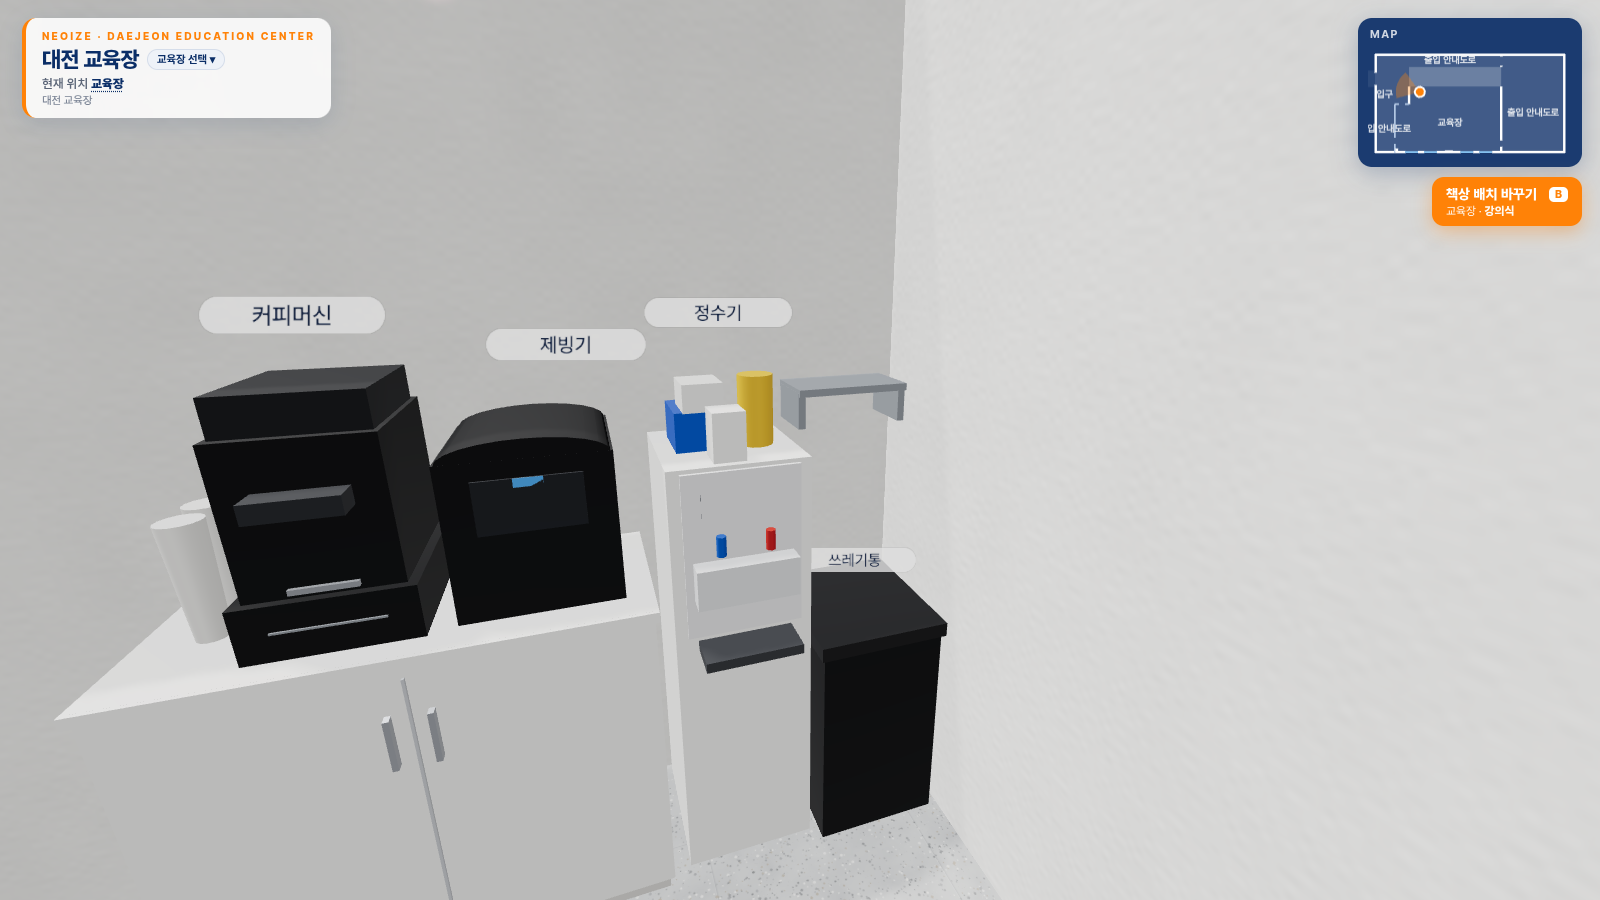
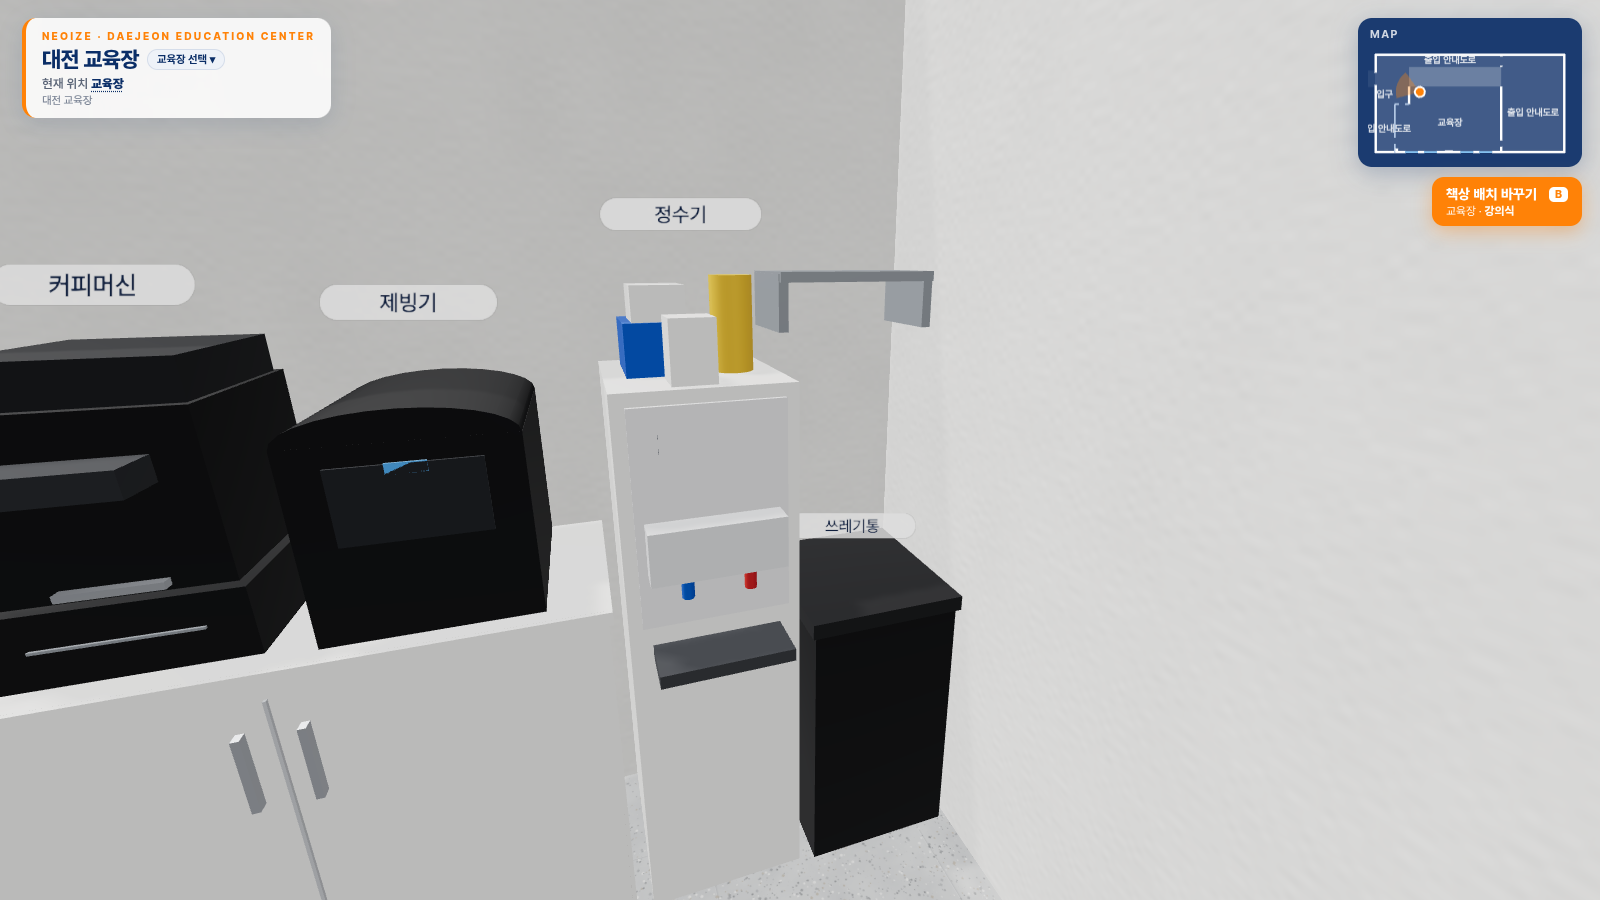
대전 커피 코너 실제 크기로 확대(수납장 1.2×0.5×0.9, 정수기 1.35m, 쓰레기통 0.75m, LED 시계 0.9m 등)

Changed region(s): [[0.0, 0.2178, 0.625, 0.9644], [0.1875, 0.9333, 0.2188, 1.0]]

diff --git a/app.js b/app.js
@@ -5,7 +5,7 @@ import { OrbitControls } from 'three/addons/OrbitControls.js';
 import { CSS2DRenderer, CSS2DObject } from 'three/addons/CSS2DRenderer.js';
 import { RoomEnvironment } from 'three/addons/RoomEnvironment.js';
 import { mergeGeometries } from 'three/addons/BufferGeometryUtils.js';
-import { makeTextures, textTexture } from './textures.js?v=11191630';
+import { makeTextures, textTexture } from './textures.js?v=11191700';
 
 const L = window.LAYOUT, B = L.building, H = B.ceiling, EYE = B.eye || 1.6, W = B.width, D = B.depth;
 const TW = Object.assign({ exterior: 0.24, interior: 0.14, thick: 0.3 }, B.wall || {});
@@ -581,46 +581,47 @@ function ledClock(g, o) {   // 빨간 LED 디지털 시계 (벽걸이)
   const m = new THREE.Mesh(new THREE.PlaneGeometry(0.46, 0.17), new THREE.MeshBasicMaterial({ map: tx })); m.position.set(0, y + 0.1, -0.021); m.rotation.y = Math.PI; m.userData.keep = true; g.add(m);
   g.userData.noBlob = true;
 }
-function coffeeCorner(g, o) {   // 대전 커피 코너(사진 11/19): 그룹 원점 = 벽면, 앞(-z)이 실내. u = 벽을 바라볼 때 왼→오른쪽 거리 → 로컬 x = -u
+function coffeeCorner(g, o) {   // 대전 커피 코너(사진 11/19, 책상 0.72m 기준 실제 크기): 그룹 원점 = 벽면, 앞(-z)이 실내. u = 벽을 바라볼 때 왼→오른쪽 거리 → 로컬 x = -u
   const X = (u) => -u, W = plain(0xf4f4f2), BK = plain(0x1c1d20), GR = plain(0x9aa0a6);
-  // 흰 낮은 2문 수납장 1.0 × 0.45 × 0.85
-  { const u = o.cab ?? -0.1, x = X(u), h = 0.85, d = 0.45;
-    box(0.98, 0.06, d - 0.04, plain(0xd9d9d6), x, 0, -d / 2 + 0.01, g); box(1.0, h - 0.06, d, W, x, 0.06, -d / 2, g); box(1.02, 0.025, d + 0.02, W, x, h - 0.025, -d / 2, g);
-    box(0.006, h - 0.14, 0.01, plain(0xc9ccd1), x, 0.09, -d - 0.002, g);
-    for (const s of [-1, 1]) box(0.012, 0.12, 0.02, M.metal, x + s * 0.04, 0.6, -d - 0.012, g);
+  // 흰 2문 수납장 1.2 × 0.5 × 0.9
+  { const u = o.cab ?? -0.3, x = X(u), cw = 1.2, h = 0.9, d = 0.5;
+    box(cw - 0.02, 0.07, d - 0.05, plain(0xd9d9d6), x, 0, -d / 2 + 0.01, g); box(cw, h - 0.07, d, W, x, 0.07, -d / 2, g); box(cw + 0.02, 0.03, d + 0.02, W, x, h - 0.03, -d / 2, g);
+    box(0.006, h - 0.16, 0.01, plain(0xc9ccd1), x, 0.1, -d - 0.002, g);
+    for (const s of [-1, 1]) box(0.014, 0.16, 0.022, M.metal, x + s * 0.05, 0.62, -d - 0.013, g);
     const t = h;
-    // 종이컵 묶음(왼쪽) + 검정 받침 서랍 위 캡슐 커피머신
-    { const cx = X(u - 0.38); for (let i = 0; i < 2; i++) cyl(0.04, 0.03, 0.26, W, cx + i * 0.09 * 0, t, -0.14 - i * 0.1, 14, g); }
-    { const cx = X(u - 0.12); box(0.32, 0.12, 0.36, BK, cx, t, -0.21, g); box(0.2, 0.004, 0.005, GR, cx, t + 0.06, -0.392, g);
-      box(0.28, 0.32, 0.34, BK, cx, t + 0.12, -0.2, g); box(0.26, 0.08, 0.3, plain(0x2a2c30), cx, t + 0.44, -0.2, g);
-      box(0.16, 0.04, 0.08, plain(0x3a3d42), cx, t + 0.3, -0.39, g); box(0.12, 0.012, 0.1, M.metal, cx, t + 0.13, -0.33, g); }
-    // 검정 제빙기(둥근 윗면)
-    { const ix = X(u + 0.27); box(0.35, 0.36, 0.34, BK, ix, t, -0.2, g);
-      const top = cyl(0.17, 0.17, 0.34, BK, ix, 0, 0, 24, g); top.rotation.x = Math.PI / 2; top.scale.set(1, 1, 0.25); top.position.set(ix, t + 0.36, -0.2);
-      box(0.22, 0.12, 0.005, plain(0x30343a), ix, t + 0.2, -0.373, g); box(0.06, 0.02, 0.005, plain(0x5ab0ff), ix, t + 0.3, -0.373, g); }
+    // 종이컵 묶음 0.35m (왼쪽)
+    { const cx = X(u - 0.48); cyl(0.045, 0.035, 0.35, W, cx, t, -0.16, 16, g); cyl(0.045, 0.035, 0.3, W, cx, t, -0.28, 16, g); }
+    // 캡슐 커피머신 0.38 × 0.55(받침 서랍 0.14 포함)
+    { const cx = X(u - 0.2); box(0.38, 0.14, 0.42, BK, cx, t, -0.23, g); box(0.24, 0.005, 0.006, GR, cx, t + 0.07, -0.443, g);
+      box(0.34, 0.33, 0.38, BK, cx, t + 0.14, -0.22, g); box(0.32, 0.08, 0.34, plain(0x2a2c30), cx, t + 0.47, -0.22, g);
+      box(0.2, 0.05, 0.1, plain(0x3a3d42), cx, t + 0.34, -0.45, g); box(0.15, 0.014, 0.12, M.metal, cx, t + 0.15, -0.37, g); }
+    // 검정 제빙기 0.4 × 0.45 × 0.45 (둥근 윗면)
+    { const ix = X(u + 0.28), dd = 0.45; box(0.4, 0.39, dd, BK, ix, t, -dd / 2 - 0.01, g);
+      const top = cyl(0.2, 0.2, dd, BK, ix, 0, 0, 28, g); top.rotation.x = Math.PI / 2; top.scale.set(1, 1, 0.3); top.position.set(ix, t + 0.39, -dd / 2 - 0.01);
+      box(0.26, 0.15, 0.005, plain(0x30343a), ix, t + 0.2, -dd - 0.013, g); box(0.07, 0.022, 0.005, plain(0x5ab0ff), ix, t + 0.33, -dd - 0.013, g); }
   }
-  // 바닥형 흰 정수기 0.35 × 1.15 + 앞 패널 · 꼭지 2개 · 물받이, 위에 비품
-  { const x = X(o.water ?? 0.625), d = 0.36, fz = -d - 0.02;
-    box(0.35, 1.15, d, W, x, 0, -d / 2 - 0.02, g); box(0.29, 0.42, 0.01, plain(0xe9eaec), x, 0.72, fz - 0.005, g);
-    box(0.25, 0.1, 0.06, plain(0xdfe1e4), x, 0.82, fz - 0.03, g);
-    cyl(0.012, 0.012, 0.05, plain(0xd23b2b), x - 0.06, 0.94, fz - 0.03, 8, g); cyl(0.012, 0.012, 0.05, plain(0x2b6fd2), x + 0.06, 0.94, fz - 0.03, 8, g);
-    box(0.24, 0.025, 0.1, plain(0x4a4d52), x, 0.68, fz - 0.05, g);
-    box(0.2, 0.06, 0.005, plain(0x2b3440), x, 1.03, fz - 0.006, g);
-    cyl(0.045, 0.045, 0.18, plain(0xf2c230), x - 0.08, 1.15, -0.22, 14, g);   // 노란 컵 홀더
-    box(0.12, 0.1, 0.16, plain(0x2f6fd6), x + 0.07, 1.15, -0.17, g);           // 파란 상자
-    box(0.1, 0.07, 0.12, W, x + 0.06, 1.25, -0.2, g); box(0.08, 0.12, 0.08, W, x + 0.02, 1.15, -0.32, g);
+  // 바닥형 흰 정수기 0.4 × 0.45 × 1.35, 꼭지 1.0m + 물받이, 위에 비품
+  { const x = X(o.water ?? 0.54), d = 0.45, fz = -d - 0.01;
+    box(0.4, 1.35, d, W, x, 0, -d / 2 - 0.01, g); box(0.34, 0.5, 0.01, plain(0xe9eaec), x, 0.82, fz - 0.005, g);
+    box(0.3, 0.12, 0.07, plain(0xdfe1e4), x, 0.95, fz - 0.035, g);
+    cyl(0.014, 0.014, 0.06, plain(0xd23b2b), x - 0.07, 0.9, fz - 0.04, 8, g); cyl(0.014, 0.014, 0.06, plain(0x2b6fd2), x + 0.07, 0.9, fz - 0.04, 8, g);
+    box(0.3, 0.03, 0.12, plain(0x4a4d52), x, 0.74, fz - 0.06, g);
+    box(0.22, 0.07, 0.005, plain(0x2b3440), x, 1.2, fz - 0.006, g);
+    cyl(0.05, 0.05, 0.22, plain(0xf2c230), x - 0.1, 1.35, -0.26, 16, g);       // 노란 컵 홀더
+    box(0.14, 0.12, 0.2, plain(0x2f6fd6), x + 0.08, 1.35, -0.2, g);            // 파란 상자
+    box(0.12, 0.08, 0.14, W, x + 0.07, 1.47, -0.22, g); box(0.1, 0.14, 0.1, W, x + 0.02, 1.35, -0.38, g);
   }
-  // 검정 사각 쓰레기통 0.4(앞뒤) × 0.35 × 0.6 (모서리) + 위 회색 벽 선반
-  { const x = X(o.bin ?? 1.0); box(0.35, 0.6, 0.4, BK, x, 0, -0.22, g); box(0.37, 0.04, 0.42, plain(0x2a2b2e), x, 0.6, -0.22, g);
-    box(0.32, 0.02, 0.18, GR, x, 1.25, -0.09, g); box(0.02, 0.1, 0.16, GR, x - 0.15, 1.16, -0.09, g); box(0.02, 0.1, 0.16, GR, x + 0.15, 1.16, -0.09, g); }
-  // 테 없는 흰(분홍기) LED 숫자 시계 + 왼쪽 빨간 화재 경보함
-  { const x = X(o.clock ?? -0.1), y = o.clockY ?? 2.08;
-    const c = document.createElement('canvas'); c.width = 512; c.height = 160; const k = c.getContext('2d');
-    k.shadowColor = '#ffd6dc'; k.shadowBlur = 18; k.fillStyle = '#fff2f4'; k.font = '700 132px monospace'; k.textAlign = 'center'; k.textBaseline = 'middle'; k.fillText(o.text || '13:39', 256, 84);
+  // 검정 사각 쓰레기통 0.4(벽 방향) × 0.45(앞뒤) × 0.75 (모서리) + 위 회색 벽 선반
+  { const x = X(o.bin ?? 0.98); box(0.4, 0.72, 0.45, BK, x, 0, -0.245, g); box(0.42, 0.04, 0.47, plain(0x2a2b2e), x, 0.71, -0.245, g);
+    box(0.42, 0.025, 0.24, GR, x, 1.55, -0.12, g); box(0.025, 0.14, 0.22, GR, x - 0.2, 1.43, -0.12, g); box(0.025, 0.14, 0.22, GR, x + 0.2, 1.43, -0.12, g); }
+  // 테 없는 흰(분홍기) LED 숫자 시계 0.9 × 0.25 @2.2m + 왼쪽 빨간 화재 경보함 0.2
+  { const x = X(o.clock ?? -0.3), y = o.clockY ?? 2.2;
+    const c = document.createElement('canvas'); c.width = 768; c.height = 220; const k = c.getContext('2d');
+    k.shadowColor = '#ffd6dc'; k.shadowBlur = 22; k.fillStyle = '#fff2f4'; k.font = '700 200px monospace'; k.textAlign = 'center'; k.textBaseline = 'middle'; k.fillText(o.text || '13:39', 384, 116, 740);
     const tx = new THREE.CanvasTexture(c); tx.colorSpace = THREE.SRGBColorSpace;
-    const m = new THREE.Mesh(new THREE.PlaneGeometry(0.62, 0.19), new THREE.MeshBasicMaterial({ map: tx, transparent: true, depthWrite: false })); m.position.set(x, y + 0.1, -0.012); m.rotation.y = Math.PI; m.userData.keep = true; m.renderOrder = 5; g.add(m);
-    const ax = X(o.alarm ?? -0.75); box(0.16, 0.22, 0.06, plain(0xd8261c), ax, (o.alarmY ?? 1.95), -0.03, g); cyl(0.035, 0.035, 0.015, plain(0xf2f2f2), ax, 0, 0, 16, g).position.set(ax, (o.alarmY ?? 1.95) + 0.12, -0.065);
-    g.children[g.children.length - 1].rotation.x = Math.PI / 2; }
+    const m = new THREE.Mesh(new THREE.PlaneGeometry(0.9, 0.26), new THREE.MeshBasicMaterial({ map: tx, transparent: true, depthWrite: false })); m.position.set(x, y, -0.012); m.rotation.y = Math.PI; m.userData.keep = true; m.renderOrder = 5; g.add(m);
+    const ax = X(o.alarm ?? -1.05), ay = o.alarmY ?? 2.05; box(0.2, 0.26, 0.07, plain(0xd8261c), ax, ay, -0.035, g);
+    const bt = cyl(0.045, 0.045, 0.015, plain(0xf2f2f2), 0, 0, 0, 16, g); bt.rotation.x = Math.PI / 2; bt.position.set(ax, ay + 0.15, -0.075); }
   g.userData.noBlob = true;
 }
 function cabinet(g, o) { box(o.w || 1.2, o.h || 0.7, o.d || 0.4, matOf(o.color || 'white'), 0, 0, 0, g); }

diff --git a/sites/daejeon/layout.js b/sites/daejeon/layout.js
@@ -118,11 +118,11 @@ window.LAYOUT = {
     { id:'dj_speaker', name:'스피커', room:'교육장', boxes:[[19.6, 5.3, 20.2, 5.7, 2.2, 2.7], [19.6, 15.63, 20.2, 16.03, 2.2, 2.7]], lines:['음량 조절: (예: 앰프 위치) — 수정 필요', '마이크: (예: 무선 마이크) — 수정 필요'] },
     { id:'dj_ac', name:'에어컨', room:'교육장', boxes:[[10.3, 9.7, 11.3, 10.7, 2.5, 2.75], [16.4, 12.1, 17.4, 13.1, 2.5, 2.75]], lines:['리모컨/조작: (예: 벽 컨트롤러) — 수정 필요'] },
     // 북서쪽 벽 커피 코너(사진): 남→북 수납장(커피머신·제빙기) · 정수기 · 쓰레기통
-    { id:'dj_coffee', name:'커피머신', room:'교육장', box:[5.72, 6.55, 6.12, 6.86, 0.85, 1.42], label:true, labelAt:[5.92, 1.5, 6.72], lines:['사용 방법: (예: 캡슐 넣고 버튼) — 수정 필요', '종이컵: 왼쪽에 비치'] },
-    { id:'dj_ice', name:'제빙기', room:'교육장', box:[5.72, 6.05, 6.1, 6.42, 0.85, 1.32], label:true, labelAt:[5.9, 1.42, 6.23], lines:['사용 방법: (예: 스쿱은 옆 걸이) — 수정 필요'] },
-    { id:'dj_water', name:'정수기', room:'교육장', box:[5.69, 5.7, 6.07, 6.05, 0, 1.38], label:true, labelAt:[5.88, 1.48, 5.875], lines:['냉수·온수: (예: 온수 잠금 버튼) — 수정 필요', '컵·비품: 정수기 위'] },
-    { id:'dj_bin', name:'쓰레기통', room:'교육장', box:[5.69, 5.32, 6.11, 5.68, 0, 0.64], label:true, labelAt:[5.9, 0.76, 5.5], lines:['분리수거: (예: 일반쓰레기) — 수정 필요'] },
-    { id:'dj_clock', name:'디지털 시계', room:'교육장', box:[5.69, 6.28, 5.76, 6.92, 2.08, 2.3], lines:['수납장 위 벽 LED 시계'] }
+    { id:'dj_coffee', name:'커피머신', room:'교육장', box:[5.72, 6.81, 6.16, 7.19, 0.9, 1.45], label:true, labelAt:[5.92, 1.56, 7.0], lines:['사용 방법: (예: 캡슐 넣고 버튼) — 수정 필요', '종이컵: 왼쪽에 비치'] },
+    { id:'dj_ice', name:'제빙기', room:'교육장', box:[5.7, 6.32, 6.16, 6.72, 0.9, 1.41], label:true, labelAt:[5.92, 1.52, 6.52], lines:['사용 방법: (예: 스쿱은 옆 걸이) — 수정 필요'] },
+    { id:'dj_water', name:'정수기', room:'교육장', box:[5.69, 5.76, 6.16, 6.16, 0, 1.6], label:true, labelAt:[5.92, 1.7, 5.96], lines:['냉수·온수: (예: 온수 잠금 버튼) — 수정 필요', '컵·비품: 정수기 위'] },
+    { id:'dj_bin', name:'쓰레기통', room:'교육장', box:[5.69, 5.32, 6.16, 5.72, 0, 0.76], label:true, labelAt:[5.92, 0.88, 5.52], lines:['분리수거: (예: 일반쓰레기) — 수정 필요'] },
+    { id:'dj_clock', name:'디지털 시계', room:'교육장', box:[5.69, 6.35, 5.76, 7.25, 2.07, 2.33], lines:['수납장 위 벽 LED 시계'] }
   ],
 
   furniture: [
@@ -134,7 +134,7 @@ window.LAYOUT = {
     /* --- 북서쪽 벽 커피 코너(실제 사진 11/19): 벽을 바라볼 때 왼→오른쪽(남→북)
            흰 2문 수납장(커피머신·종이컵·제빙기) → 바닥형 정수기 → 모서리 검정 쓰레기통 + 회색 선반, 위에 LED 시계 · 화재 경보함
            그룹 원점 = 벽면(x5.69), z6.5 = u 0. 위치는 cab / water / bin / clock / alarm (u, m) 로 조정 --- */
-    { type:'coffeeCorner', x:5.69, z:6.5, rot:-90, cab:-0.1, water:0.625, bin:1.0, clock:-0.1, alarm:-0.75 },
+    { type:'coffeeCorner', x:5.69, z:6.5, rot:-90, cab:-0.3, water:0.54, bin:0.98, clock:-0.3, alarm:-1.05 },
 
     /* --- 입구 --- */
     { type:'mat', x:0.75, z:4.05, w:0.8, d:1.3, color:'orange' }

diff --git a/index.html b/index.html
@@ -178,10 +178,10 @@ a.pk-card:hover{transform:translateY(-4px);box-shadow:0 16px 36px rgba(11,46,103
   </div>
 </aside>
 <!-- 교육장 목록: sites/sites.js / 교육장별 공간 설정: sites/<id>/layout.js (치수·가구 배치는 거기서 수정) -->
-<script src="sites/sites.js?v=11191630"></script>
+<script src="sites/sites.js?v=11191700"></script>
 <script type="importmap">{"imports":{"three":"./lib/three.module.min.js","three/addons/":"./lib/addons/"}}</script>
 <script type="module">
-const V = '11191630', SITES = window.SITES || [], q = new URLSearchParams(location.search);
+const V = '11191700', SITES = window.SITES || [], q = new URLSearchParams(location.search);
 let id = q.get('site');
 if (!id && [...q.keys()].length) id = 'seoul';            // 예전 링크(?room=… 등)는 서울 구로로
 const S = SITES.find((s) => s.id === id);

diff --git a/수정방법.md b/수정방법.md
@@ -12,7 +12,7 @@
   - 출입 안내도로: 북쪽 띠(z0–5.30), 서쪽(x0–3.28), 동쪽(x20.83–31.36). 북쪽 띠 안 흰 상자 = `columns` 의 `block:true`(다른 공간, 미니맵 옅은 회색).
   - 문(전부 E 키): 입구 유리 양문(서쪽 바깥벽 z3.05–5.05, 처음부터 열림) · 교육장 북서쪽 문(z8.19, x3.95–4.95) · 서쪽 복도 문(x3.28, z13.7–14.7) · 동쪽 복도 문(x20.83, z14.15–15.15) · 북쪽 복도 동쪽 끝 문(x20.83, z0.4–1.9).
   - `outside: [[x0,z0,x1,z1]]` = 건물 밖 걸을 수 있는 바닥(입구 앞). `route: { points:[[x,z],...] }` = 바닥 초록 점선 + 화살표 동선. 걷기 시작점 = rooms 의 entrance jump(입구 바깥).
-  - 북서쪽 벽 커피 코너(`coffeeCorner`, 실제 사진 11/19): 벽을 보고 왼→오른쪽(남→북) 흰 2문 수납장(종이컵 · 검정 캡슐 커피머신+받침 · 검정 제빙기) → 바닥형 흰 정수기(꼭지 2개, 위에 컵·비품) → 모서리 검정 사각 쓰레기통 + 회색 벽 선반. 위에 흰 LED 숫자 시계(테 없음)와 빨간 화재 경보함. 위치는 `cab / water / bin / clock / alarm`(u, m; z6.5 기준 북쪽이 +)로 조정. 선풍기는 넣지 않음.
+  - 북서쪽 벽 커피 코너(`coffeeCorner`, 실제 사진 11/19): 벽을 보고 왼→오른쪽(남→북) 흰 2문 수납장(종이컵 · 검정 캡슐 커피머신+받침 · 검정 제빙기) → 바닥형 흰 정수기(꼭지 2개, 위에 컵·비품) → 모서리 검정 사각 쓰레기통 + 회색 벽 선반. 위에 흰 LED 숫자 시계(테 없음)와 빨간 화재 경보함. 크기(책상 0.72m 기준 실제 크기): 수납장 1.2×0.5×0.9, 커피머신 0.38w×0.55h(받침 포함), 종이컵 0.35h, 제빙기 0.4×0.45×0.45, 정수기 0.4×0.45×1.35(꼭지 1.0m), 쓰레기통 0.4×0.45×0.75, LED 시계 0.9×0.26 @2.2m, 경보함 0.2. 위치는 `cab / water / bin / clock / alarm`(u, m; z6.5 기준 북쪽이 +)로 조정. 선풍기는 넣지 않음.
   - 책상 4열(x9.67, 12.09, 14.35, 16.93) × 4개(z7.58–13.73), 스크린은 동쪽 벽 앞 x19.9 (z10.2). 실측값·주소를 받으면 숫자와 `sites/sites.js` 의 addr 만 바꾸면 돼요.
 - 장비 안내 카드는 마우스(걷기 중엔 화면 가운데 조준점)가 닿은 장비 상자 윗면 바로 위에 떠요(이름표가 있으면 그 위).
 - 교육장 추가하기: ① `sites/새id/layout.js` 를 서울 파일을 복사해 만들고 ② `sites/sites.js` 에 `{ id:'새id', name, sub, ready:true, title, brand, addr, desc, thumb }` 한 줄 추가 ③ index.html·app.js 의 `?v=` 숫자 올리기.
